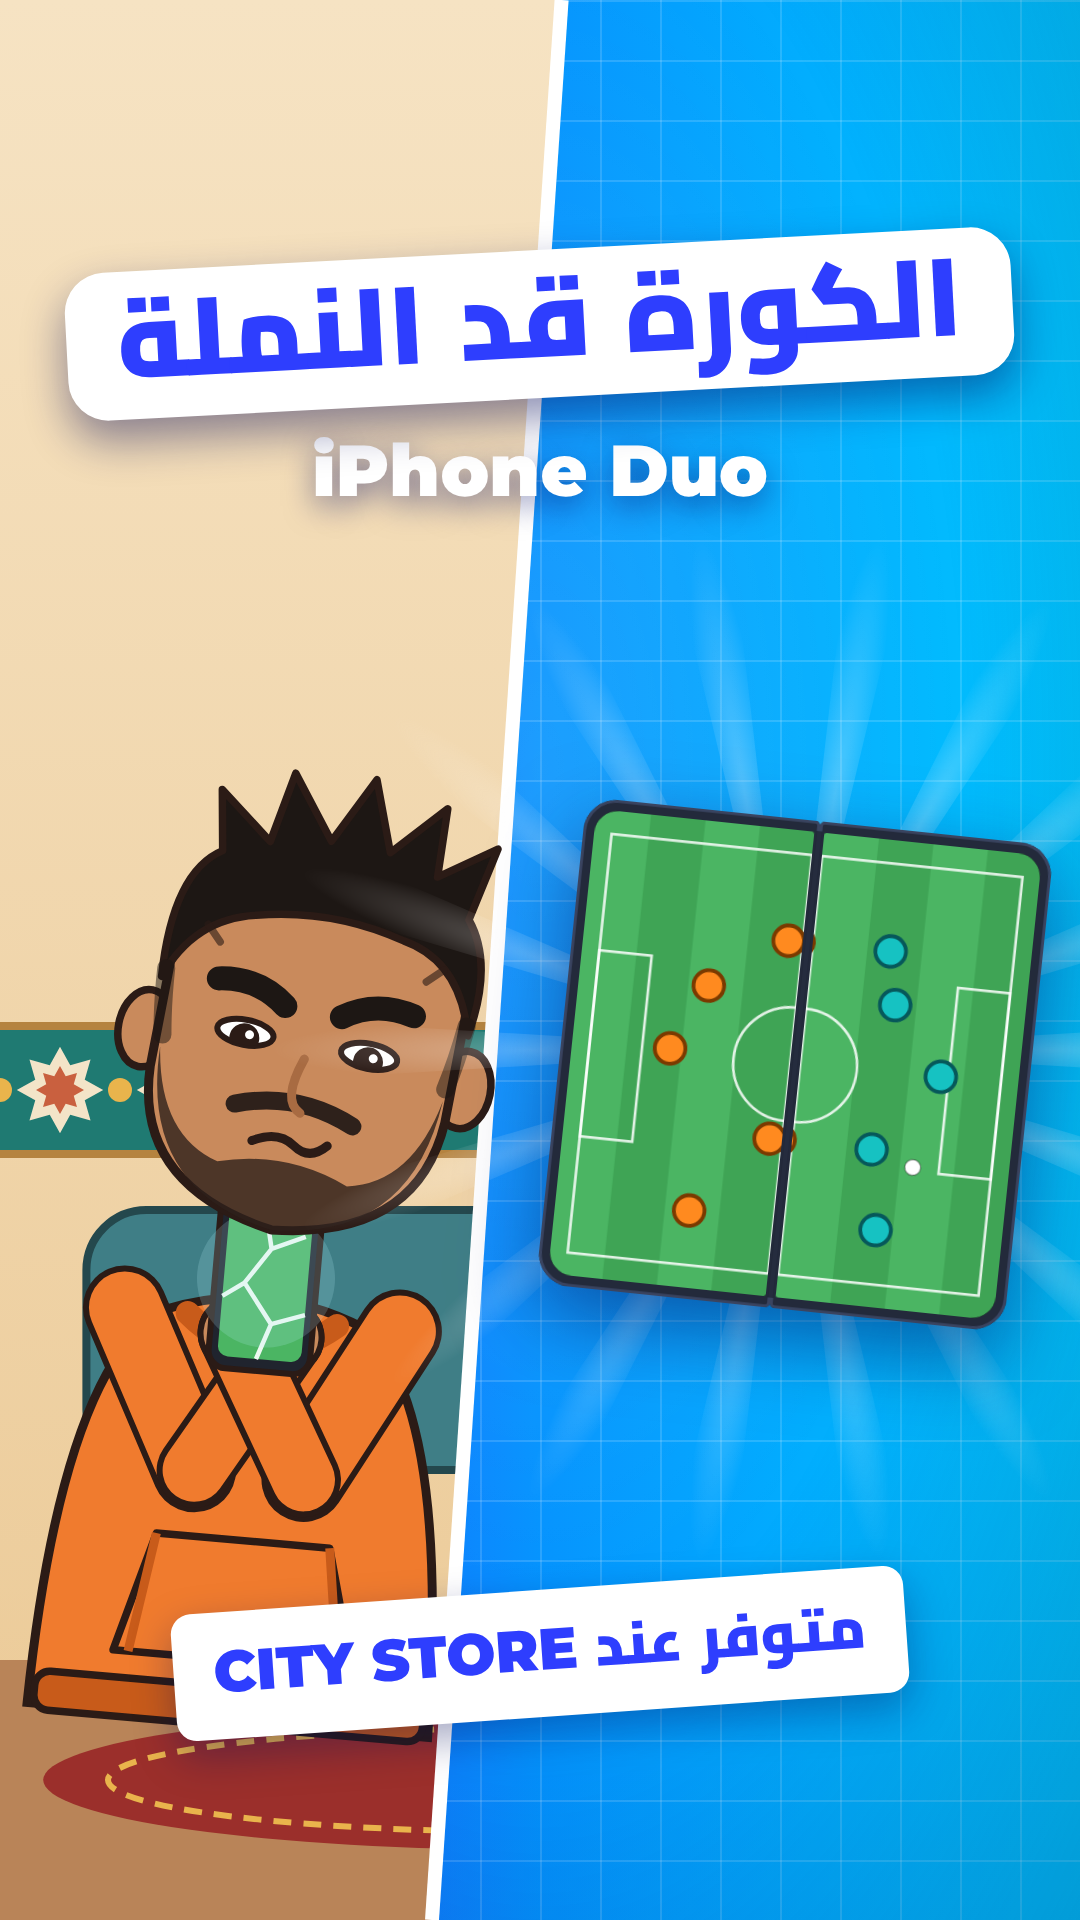
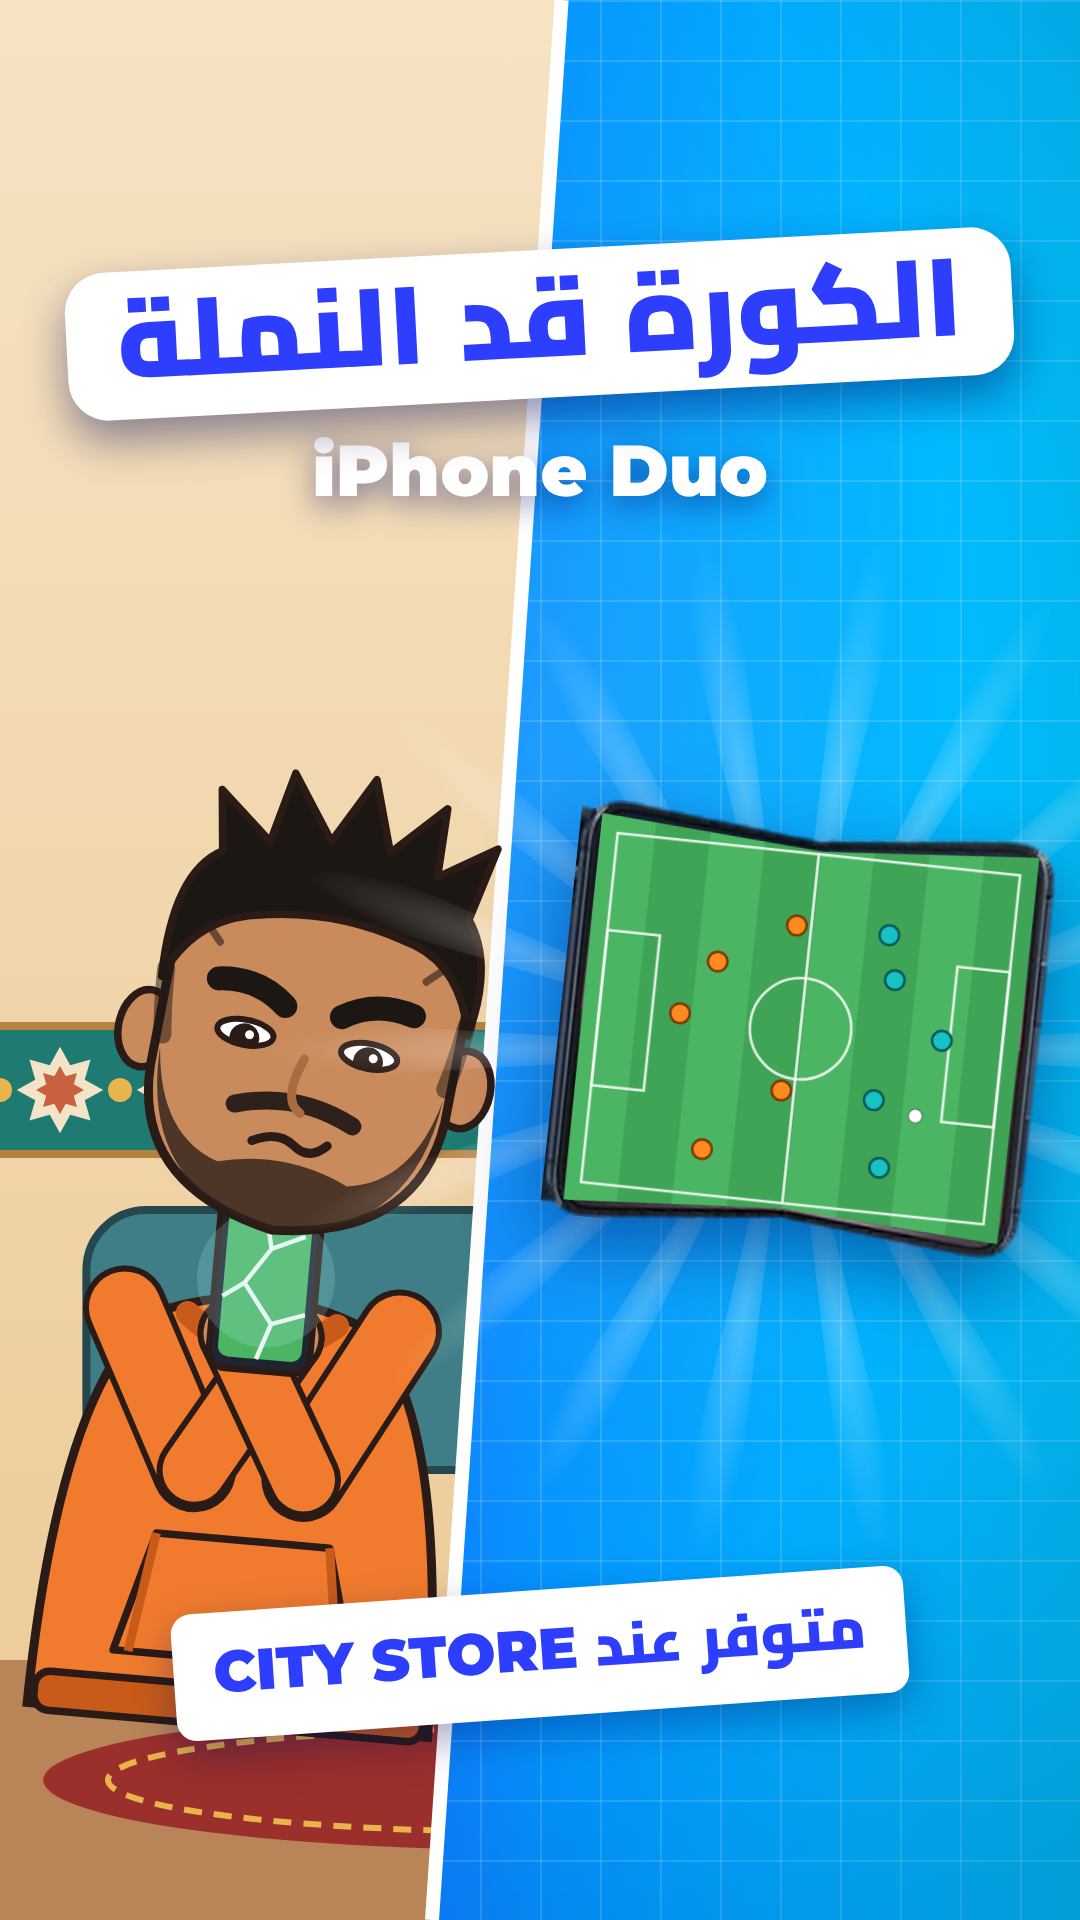
Hamza ep. 2: real iPhone Duo (official Night Sky photos) with a book-style opening; match fades onto the real screen on 'ومحلول'
Claude-Session: https://claude.ai/code/session_01B6UvVnyVQqoyQ1GwELGaCV

Changed region(s): [[0.4889, 0.4062, 0.9778, 0.7188]]

diff --git a/src/reels/hamza2/H2Scenes.tsx b/src/reels/hamza2/H2Scenes.tsx
@@ -8,7 +8,7 @@ import { LineIcon } from "../../components/Icons";
 import { Burst, SceneShell, useSceneFrame } from "../../components/SceneShell";
 import { useLayout } from "../../layout";
 import { EndCard } from "../../scenes/EndCard";
-import { DuoDevice } from "./DuoDevice";
+import { RealDuo } from "./RealDuo";
 import { ARM, ArmAngles, Hamza, HamzaExpr, handAt } from "./Hamza";
 import { Match } from "./Match";
 import { RoomBack, SofaFront } from "./Room";
@@ -145,7 +145,7 @@ export const H2S2: React.FC = () => {
   const box = { cx: v(560, 540), y: v(1000, 640), w: v(230, 170) };
   const drop = sp(frame, boxAt, { damping: 9, stiffness: 160, mass: 0.7 });
   const rise = sp(frame, rAt, { damping: 13, stiffness: 120 });
-  const duoW = v(170, 120);
+  const duoW = v(220, 160);
   return (
     <SceneShell id="s2" noIn>
       <div style={{ position: "absolute", inset: 0, background: "#fff", opacity: interpolate(frame - bAt, [0, 2, 10], [0.9, 0.9, 0], clamp), zIndex: 30 }} />
@@ -170,7 +170,7 @@ export const H2S2: React.FC = () => {
               <div style={{ position: "absolute", left: box.w / 2 - 320, top: -380, width: 640, height: 640, opacity: ramp(frame, rAt, rAt + 8) }}>
                 <Burst x={320} y={320} r={320} rot={frame * 1.2} opacity={0.5} rays={16} />
               </div>
-              <Img src={staticFile("iphoneduo2/products/front.png")} style={{ position: "absolute", left: box.w / 2 - duoW / 2, top: 30 - rise * v(470, 350), width: duoW, filter: "drop-shadow(0 24px 30px rgba(6,14,90,0.45))" }} />
+              <Img src={staticFile("hamza2/products/duo_folded_night.png")} style={{ position: "absolute", left: box.w / 2 - duoW / 2, top: 30 - rise * v(470, 350), width: duoW, filter: "drop-shadow(0 24px 30px rgba(6,14,90,0.45))" }} />
             </>
           )}
           <svg viewBox="0 0 230 190" width={box.w} style={{ position: "relative", overflow: "visible" }}>
@@ -200,7 +200,7 @@ export const H2S3: React.FC = () => {
   const { w: W } = useLayout();
   const uAt = h2ev("s3.unfold"), jAt = h2ev("s3.jaw"), q1 = h2ev("s3.q1"), q2 = h2ev("s3.q2");
   const open = sp(frame, uAt, { damping: 16, stiffness: 70, mass: 1 });
-  const pw = v(230, 165);
+  const pw = v(320, 190);
   const Q: React.FC<{ at: number; x: number; y: number; s: number; rot: number }> = ({ at, x, y, s, rot }) =>
     frame < at - 1 ? null : (
       <div style={{ position: "absolute", left: x, top: y, transform: `scale(${pop(frame, at)}) rotate(${rot}deg)`, fontFamily: AR, fontWeight: 900, fontSize: s, color: "#fff", textShadow }}>؟</div>
@@ -208,12 +208,12 @@ export const H2S3: React.FC = () => {
   return (
     <SceneShell id="s3">
       <div style={{ position: "absolute", left: W / 2 - pw, top: v(330, 120) }}>
-        <DuoDevice w={pw} open={open} t={frame / 30} />
+        <RealDuo id={`rd${pw}`} w={2 * pw} open={open} t={frame / 30} matchOn={0} />
       </div>
-      <BotAt frame={frame} id="cb3" cx={v(830, 920)} y={v(860, 470)} w={v(250, 190)} expr="proud" lookX={-0.6} lookY={-0.6} l={{ rot: 150, hand: "open" }} />
+      <BotAt frame={frame} id="cb3" cx={v(840, 920)} y={v(960, 470)} w={v(250, 190)} expr="proud" lookX={-0.6} lookY={-0.6} l={{ rot: 150, hand: "open" }} />
       <HamzaAt frame={frame} id="hz3" x={v(10, 20)} y={v(900, 470)} w={v(400, 320)} expr={frame >= jAt ? "jaw" : "neutral"} arms={frame >= jAt ? ARM.open : ARM.down} lookX={0.6} lookY={-0.7} lean={-4} />
-      <Q at={q1} x={v(200, 160)} y={v(760, 330)} s={v(150, 120)} rot={-12} />
-      <Q at={q2} x={v(310, 260)} y={v(700, 280)} s={v(110, 90)} rot={14} />
+      <Q at={q1} x={v(400, 160)} y={v(930, 330)} s={v(150, 120)} rot={-12} />
+      <Q at={q2} x={v(510, 260)} y={v(900, 280)} s={v(110, 90)} rot={14} />
     </SceneShell>
   );
 };
@@ -227,7 +227,7 @@ export const H2S4: React.FC = () => {
   const fold = sp(frame, fAt - 6, { damping: 18, stiffness: 160 });
   const reopen = sp(frame, oAt, { damping: 16, stiffness: 80 });
   const open = 1 - fold + fold * reopen;
-  const pw = v(240, 170);
+  const pw = v(310, 175);
   const devX = v(W / 2 - pw, 330 - pw), devY = v(300, 120);
   const pill = (at: number, text: string, x: number, y: number) =>
     frame < at - 1 ? null : (
@@ -244,30 +244,30 @@ export const H2S4: React.FC = () => {
   return (
     <SceneShell id="s4">
       <div style={{ position: "absolute", left: devX, top: devY }}>
-        <DuoDevice w={pw} open={open} t={frame / 30} />
+        <RealDuo id={`rd${pw}`} w={2 * pw} open={open} t={frame / 30} matchOn={ramp(frame, oAt + 6, oAt + 18)} />
       </div>
       {frame >= fAt && frame < oAt && pill(fAt, '5,4″', v(W / 2 + 175, 470), v(380, 160))}
-      {frame >= oAt && pill(oAt + 10, '7,6″', v(W / 2 + pw + 20, 640), v(230, 100))}
+      {frame >= oAt && pill(oAt + 10, '7,6″', v(W / 2 + pw - 150, 640), v(200, 100))}
       {frame >= bAt - 1 && (
-        <div style={{ position: "absolute", left: v(0, 560), right: v(70, 30), top: v(840, 280), display: "flex", justifyContent: "center", ...slam(frame, bAt, 1.8) }}>
+        <div style={{ position: "absolute", left: v(0, 560), right: v(70, 30), top: v(870, 280), display: "flex", justifyContent: "center", ...slam(frame, bAt, 1.8) }}>
           <div style={{ background: GREEN, color: "#fff", fontFamily: FONT, fontWeight: 900, fontSize: v(34, 28), padding: "6px 24px 8px", borderRadius: 999, whiteSpace: "nowrap", boxShadow: "0 10px 26px rgba(6,14,90,0.3)" }}>Le plus grand écran d'iPhone</div>
         </div>
       )}
       {frame >= cAt - 1 && (
-        <div style={{ position: "absolute", left: v(0, 560), right: v(70, 30), top: v(930, 380), display: "flex", justifyContent: "center", gap: 30 }}>
+        <div style={{ position: "absolute", left: v(0, 560), right: v(70, 30), top: v(960, 380), display: "flex", justifyContent: "center", gap: 30 }}>
           {sw("iphoneduo2/products/night.png", "Night Sky", 0)}
           {sw("iphoneduo2/products/open.png", "Star White", 1)}
         </div>
       )}
       {frame >= fAt && (
-        <div style={{ position: "absolute", left: v(340, 560), right: v(130, 30), top: v(1150, 610), textAlign: "center", fontFamily: FONT, fontWeight: 700, fontSize: v(24, 20), color: "#fff", opacity: 0.85, textShadow }}>
+        <div style={{ position: "absolute", left: v(340, 560), right: v(130, 30), top: v(1170, 610), textAlign: "center", fontFamily: FONT, fontWeight: 700, fontSize: v(24, 20), color: "#fff", opacity: 0.85, textShadow }}>
           Écran extérieur 5,4″ · écran intérieur 7,6″ (diagonales mesurées en rectangle)
         </div>
       )}
       {v(true, false) && (
         <>
           <HamzaAt frame={frame} id="hz4" x={20} y={1170} w={250} expr="jaw" arms={ARM.open} lookX={0.6} lookY={-0.8} />
-          <BotAt frame={frame} id="cb4" cx={850} y={1200} w={170} expr="excited" lookX={-0.5} lookY={-0.8} />
+          <BotAt frame={frame} id="cb4" cx={850} y={1250} w={160} expr="excited" lookX={-0.5} lookY={-0.8} />
         </>
       )}
     </SceneShell>
@@ -337,14 +337,14 @@ export const H2S7: React.FC = () => {
   const hw = v(720, 520), hx = v(70, 170), hy = v(560, 150);
   const k = hw / 400;
   const hand = handAt(-1, ARM.holdFront.l);
-  const pw = 92 * k; // panel width in px
+  const pw = 112 * k; // half-width of the device in px
   const url = "citystore.ma";
   const typed = Math.max(0, Math.min(url.length, Math.floor((frame - uAt) / 1.5) + 1));
   return (
     <SceneShell id="s7">
       <HamzaAt frame={frame} id="hz7" x={hx} y={hy} w={hw} expr="delighted" arms={ARM.holdFront} lookY={-0.2}>
         <div style={{ position: "absolute", left: 200 * k - pw, top: (hand.y - 190) * k, transform: "rotate(-3deg)" }}>
-          <DuoDevice w={pw} open={1} t={frame / 30} />
+          <RealDuo id="rd7" w={2 * pw} open={1} t={frame / 30} />
         </div>
       </HamzaAt>
       {frame >= mAt - 1 && (

diff --git a/src/reels/hamza2/RealDuo.tsx b/src/reels/hamza2/RealDuo.tsx
@@ -1,0 +1,72 @@
+import React from "react";
+import { Img, staticFile } from "remotion";
+import { MatchG } from "./Match";
+
+/*
+ * The REAL iPhone Duo (official Apple photos supplied by City Store, Night Sky), with a book-style opening:
+ *  - folded: the official folded front (public/hamza2/products/duo_folded_night.png, cut from iphoneduo2 flat_night.png)
+ *  - opening: it hands over to the official unfolded photo (duo_open_night.png, cut from night.png); the unfolded
+ *    photo's right half swings open around the hinge (CSS 3D), like a book cover, while the left half stays.
+ * The invented match is laid over the real screens, clipped to each screen's outline (measured on the photos).
+ * Coordinates below are in the photos' original pixels (before the 2.5x enhance): open 490 x 427, hinge at x = 248;
+ * folded 314 x 639.
+ */
+const OPEN = { w: 490, h: 427, hinge: 248 };
+const FOLD = { w: 314, h: 639 };
+const SCR_L = "21,15 248,31 248,397 23,412";
+const SCR_R = "248,31 470,14 468,411 248,397";
+const SCR_F = { x: 26, y: 18, w: 274, h: 607, r: 22 };
+
+/** matchOn: 0 = the official screen (real wallpaper), 1 = the invented match on the screens */
+export const RealDuo: React.FC<{ w: number; open: number; t: number; id: string; matchOn?: number; style?: React.CSSProperties }> = ({ w, open, t, id, matchOn = 1, style }) => {
+  const s = w / OPEN.w, H = OPEN.h * s;
+  const fs = H / FOLD.h, fw = FOLD.w * fs; // folded photo at the same height
+  const halfL = OPEN.hinge * s;
+  const shift = (1 - open) * (w / 2 - halfL / 2);
+  const showFold = 1 - Math.min(1, Math.max(0, open / 0.18));
+  const showOpen = Math.min(1, Math.max(0, (open - 0.04) / 0.16));
+  const match = (clip: string) => (
+    <g clipPath={`url(#${clip})`} opacity={matchOn}>
+      <g transform="translate(21 14)">
+        <MatchG w={449} h={398} t={t} ballR={7} playerR={10} />
+      </g>
+    </g>
+  );
+  return (
+    <div style={{ position: "relative", width: w, height: H, perspective: w * 3, ...style }}>
+      {/* folded (real photo) */}
+      {showFold > 0 && (
+        <div style={{ position: "absolute", left: (w - fw) / 2, top: 0, width: fw, height: H, opacity: showFold }}>
+          <Img src={staticFile("hamza2/products/duo_folded_night.png")} style={{ width: "100%", height: "100%", display: "block" }} />
+          <svg viewBox={`0 0 ${FOLD.w} ${FOLD.h}`} style={{ position: "absolute", inset: 0, width: "100%", height: "100%" }}>
+            <defs><clipPath id={`${id}-f`}><rect x={SCR_F.x} y={SCR_F.y} width={SCR_F.w} height={SCR_F.h} rx={SCR_F.r} /></clipPath></defs>
+            <g clipPath={`url(#${id}-f)`} opacity={matchOn}>
+              <g transform={`translate(${SCR_F.x} ${SCR_F.y})`}><MatchG w={SCR_F.w} h={SCR_F.h} t={t} ballR={6} playerR={9} /></g>
+            </g>
+            <circle cx={282} cy={104} r={10} fill="#05070C" />
+          </svg>
+        </div>
+      )}
+      {showOpen > 0 && (
+        <div style={{ position: "absolute", inset: 0, transform: `translateX(${shift}px)`, transformStyle: "preserve-3d", opacity: showOpen }}>
+          {/* left half (static) */}
+          <div style={{ position: "absolute", left: 0, top: 0, width: halfL, height: H, overflow: "hidden" }}>
+            <Img src={staticFile("hamza2/products/duo_open_night.png")} style={{ width: w, height: H, display: "block" }} />
+            <svg viewBox={`0 0 ${OPEN.w} ${OPEN.h}`} style={{ position: "absolute", left: 0, top: 0, width: w, height: H }}>
+              <defs><clipPath id={`${id}-l`}><polygon points={SCR_L} /></clipPath></defs>
+              {match(`${id}-l`)}
+            </svg>
+          </div>
+          {/* right half swings open around the hinge */}
+          <div style={{ position: "absolute", left: halfL, top: 0, width: w - halfL, height: H, overflow: "hidden", transformOrigin: "0 50%", transform: `rotateY(${-180 * (1 - open)}deg)`, backfaceVisibility: "hidden" }}>
+            <Img src={staticFile("hamza2/products/duo_open_night.png")} style={{ width: w, height: H, marginLeft: -halfL, display: "block" }} />
+            <svg viewBox={`${OPEN.hinge} 0 ${OPEN.w - OPEN.hinge} ${OPEN.h}`} style={{ position: "absolute", left: 0, top: 0, width: w - halfL, height: H }}>
+              <defs><clipPath id={`${id}-r`}><polygon points={SCR_R} /></clipPath></defs>
+              {match(`${id}-r`)}
+            </svg>
+          </div>
+        </div>
+      )}
+    </div>
+  );
+};

diff --git a/src/reels/hamza2/Hamza2Thumb.tsx b/src/reels/hamza2/Hamza2Thumb.tsx
@@ -4,7 +4,7 @@ import { COLORS, FONT } from "../../brand";
 import { BrandBackground } from "../../components/BrandBackground";
 import { Burst } from "../../components/SceneShell";
 import { LayoutProvider, LAYOUT_9x16 } from "../../layout";
-import { DuoDevice } from "./DuoDevice";
+import { RealDuo } from "./RealDuo";
 import { ARM, Hamza } from "./Hamza";
 import { RoomBack } from "./Room";
 
@@ -24,7 +24,7 @@ export const Hamza2Thumb: React.FC = () => (
       </div>
       <Burst x={790} y={1050} r={520} rot={10} opacity={0.3} rays={18} />
       <div style={{ position: "absolute", left: 560, top: 820, transform: "rotate(6deg)", filter: "drop-shadow(0 30px 40px rgba(6,14,90,0.5))" }}>
-        <DuoDevice w={235} open={1} t={1.2} />
+        <RealDuo id="rdt" w={480} open={1} t={1.2} />
       </div>
       <div style={{ position: "absolute", left: 0, right: 0, top: 250, display: "flex", flexDirection: "column", alignItems: "center", gap: 18 }}>
         <div dir="rtl" style={{ background: "#fff", color: COLORS.blue, fontFamily: FONT, fontWeight: 900, fontSize: 110, lineHeight: 1.25, padding: "0 50px 10px", borderRadius: 40, boxShadow: "0 20px 44px rgba(6,14,90,0.45)", transform: "rotate(-3deg)", whiteSpace: "nowrap" }}>

diff --git a/reels/hamza2/SOURCES.md b/reels/hamza2/SOURCES.md
@@ -14,12 +14,17 @@
   `public/hamza2/audio/vo_clean/` (and `mix_clean.wav`, v1-era clean mix).
 - Music: original, generated by scripts/make_music.py (style "hamza2"); no track was supplied in assets/music/.
 
-## Product images
-Official Apple iPhone Duo images already supplied by City Store for the iPhone Duo reels (see reels/iphoneduo2/SOURCES.md):
-`public/iphoneduo2/products/front.png` (folded, rises out of the box), `night.png` (Night Sky) and `open.png`
-(Star White) as colour swatches. apple.com / Apple Newsroom could not be reached from this environment.
-The book-style unfold is an SVG/CSS-3D device frame (`DuoDevice.tsx`, Night Sky colours): the right panel is
-double-sided (outer 5.4" screen on its back, inner 7.6" screen half on its front) and rotates around the hinge.
+## Product images (the real iPhone Duo)
+Official Apple iPhone Duo photos already supplied by City Store for the iPhone Duo reels (reels/iphoneduo2/SOURCES.md);
+apple.com / Apple Newsroom could not be reached from this environment.
+- `public/hamza2/products/duo_folded_night.png`: the folded Night Sky front, cut from `iphoneduo2/products/flat_night.png`
+  (x >= 256), enhanced 2.5x. Rises out of the box (L2) and is the folded state (L3 start, L4 "مطوي").
+- `public/hamza2/products/duo_open_night.png`: the unfolded Night Sky, cut from `iphoneduo2/products/night.png`
+  (x >= 172), enhanced 2.5x. Its right half swings open around the hinge (CSS 3D) for the book-style opening
+  (`RealDuo.tsx`); the official screen (wallpaper) shows while it opens; on "ومحلول" (L4) the invented match fades onto
+  the real screens, clipped to each screen outline measured on the photos.
+- Colour swatches (L4): `iphoneduo2/products/night.png` (Night Sky) and `open.png` (Star White).
+The earlier drawn device (`DuoDevice.tsx`) is no longer used.
 Screen sizes as in the earlier iPhone Duo reels (footnote: diagonals measured as a rectangle).
 
 ## The match
